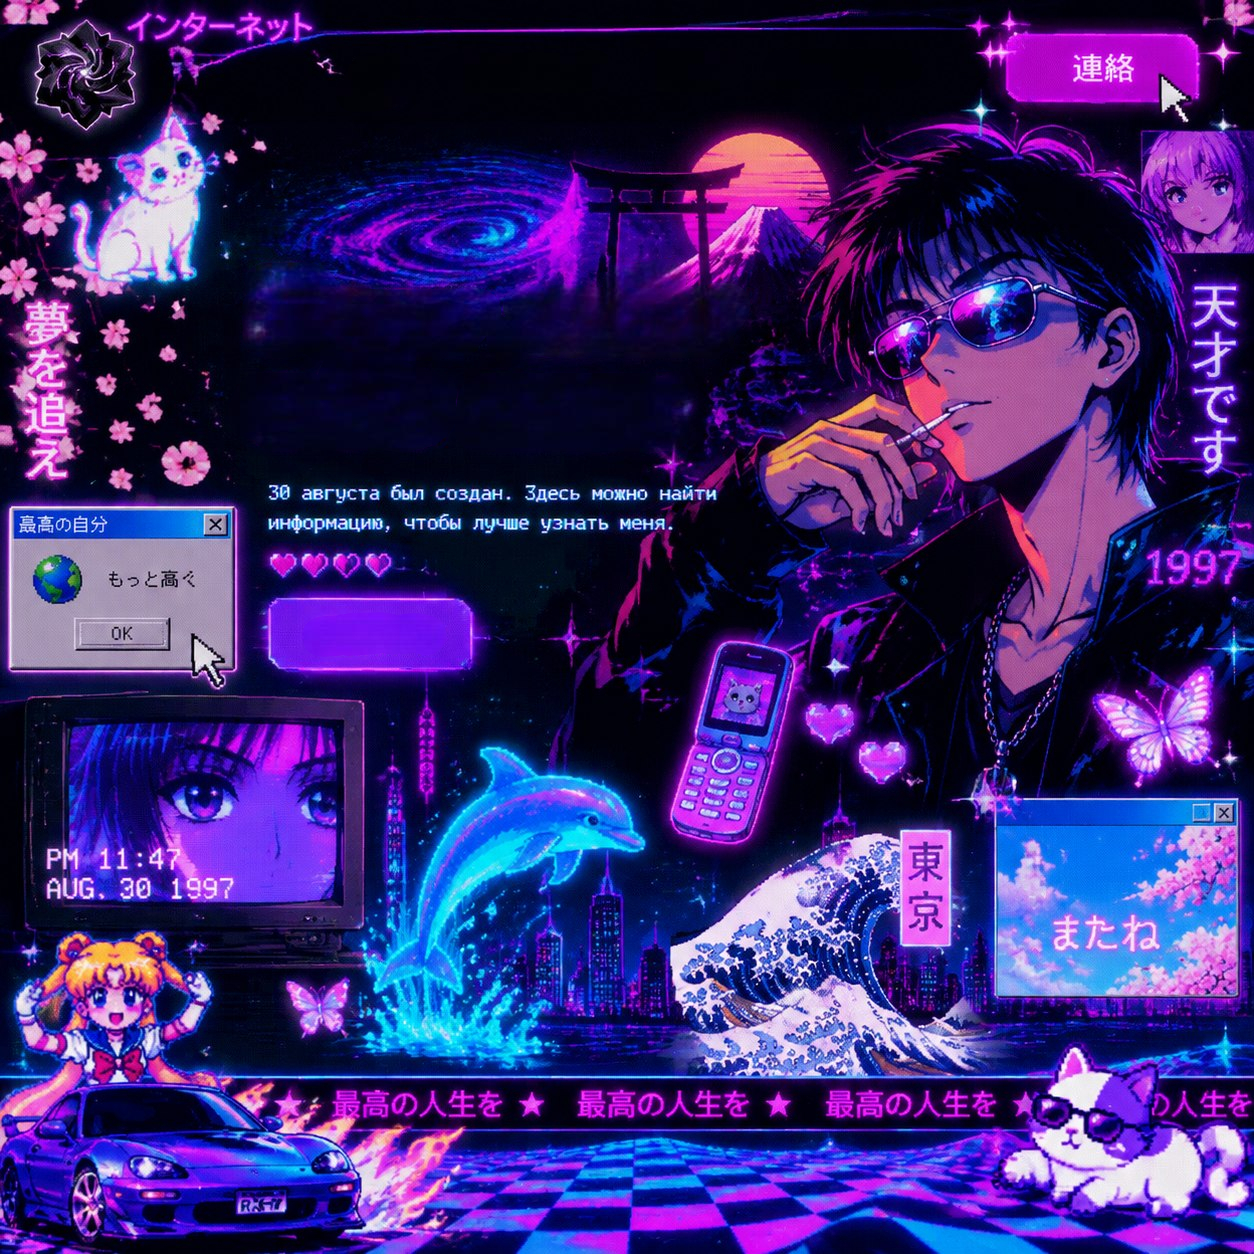
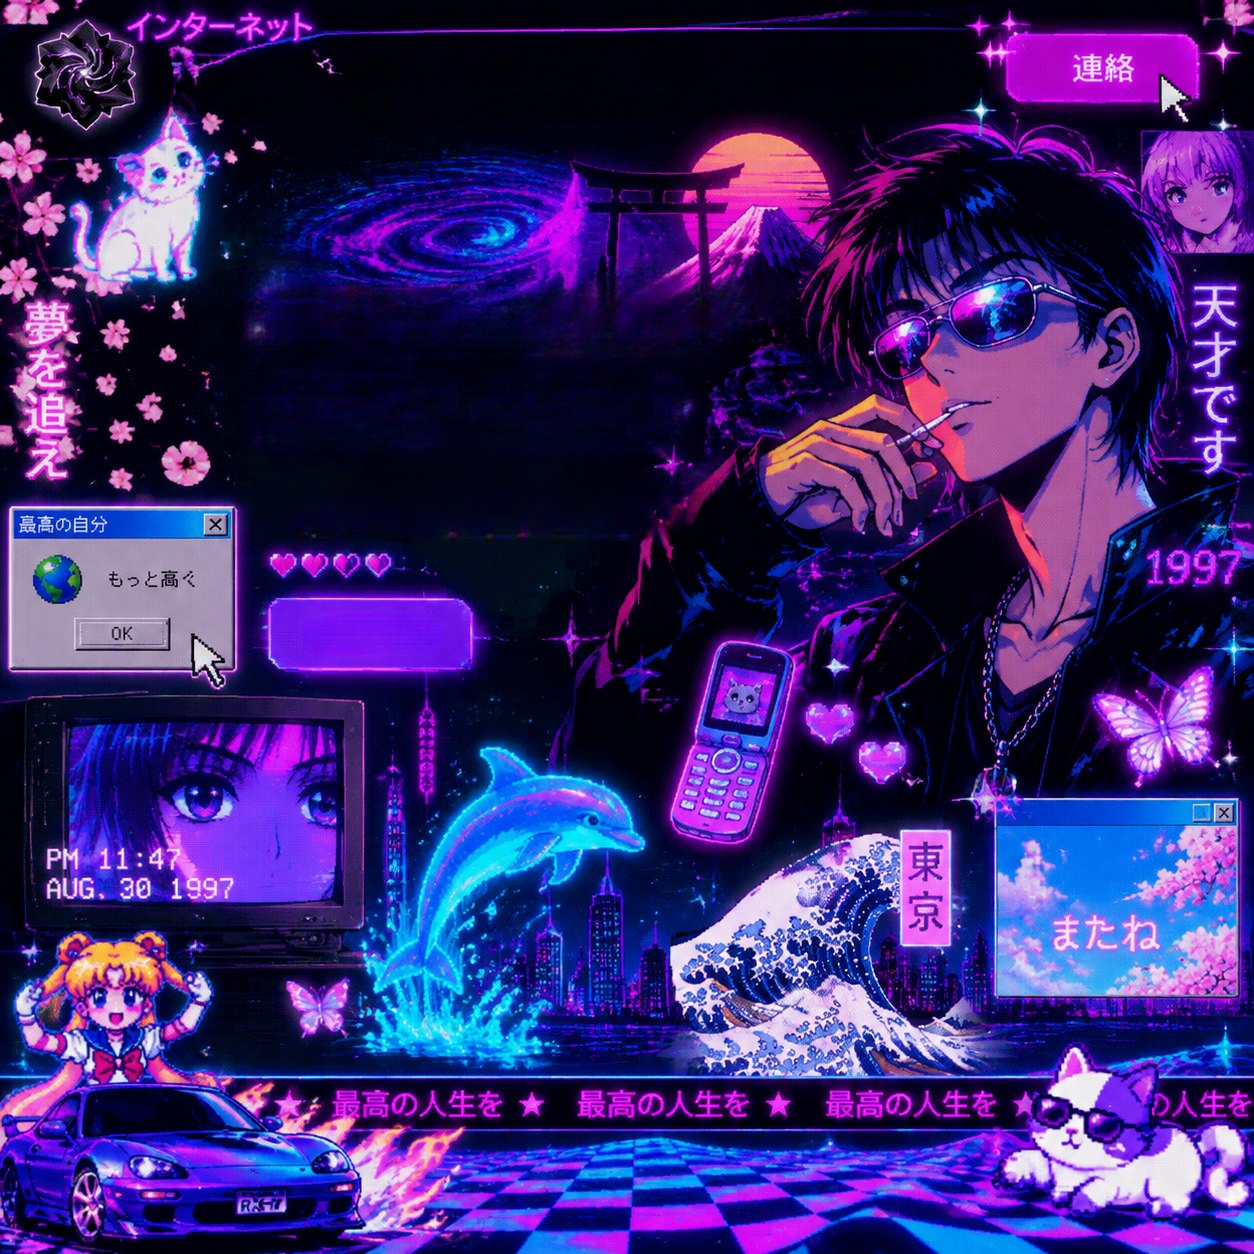
update 2.0!

Changed region(s): [[0.2177, 0.3732, 0.5909, 0.4354]]

diff --git a/style.css b/style.css
@@ -1,71 +1,8 @@
-/* ==========================================================================
-   1. ПЕРЕМЕННЫЕ, СБРОС СТИЛЕЙ И НАСТРОЙКА ФОНА
-   ========================================================================== */
 :root {
-  /* ЦВЕТА ПО УМОЛЧАНИЮ (До клика — светлая тема на всех страницах) */
-  --dark: #19191b; /* Черные заголовки */
-  --gray: #696871; /* Серый текст и обычные ссылки меню */
-  --purple: #5454d4; /* Фиолетовый для кнопок и ссылок в тексте */
-  --orange: #a739c2; /* Цвет для кнопки «Связь» */
-  --header-bg: rgba(0, 0, 0, 0.75); /* Сохранили твою темную шапку */
-  --header-border: rgba(0, 0, 0, 0.05);
-}
-
-/* 🏠 ГЛАВНАЯ СТРАНИЦА: При клике буквы становятся БЕЛЫМИ, включаются три фото */
-/* Сеньорское решение: добавили .home-page, чтобы картинки не мигали на странице связи! */
-body.home-page.bg-active {
-  --dark: #ffffff; /* Весь текст становится белым */
-  --gray: #e2e2e9; /* Светло-серый текст */
-  --purple: #7171e2; /* Светло-фиолетовый для контраста */
-  --orange: #f820ff; /* Ярко-розовый/оранжевый */
-  --header-bg: rgba(0, 0, 0, 0.35); /* Темное стекло для шапки */
-  --header-border: rgba(255, 255, 255, 0.1);
-
-  background-image:
-    url("images/333.jpg"), url("images/444.jpg"), url("images/555.jpg");
-
-  /* Позиционируем: 1-я сверху, 2-я по центру экрана, 3-я ниже */
-  background-position:
-    center top 0px,
-    center center,
-    center top 1000px;
-
-  background-repeat: no-repeat, no-repeat, no-repeat;
-  background-color: #000000; /* Твоя черная подложка */
-
-  /* ТВОЁУТОЧНЕНИЕ: 1-я идет по ширине, 2-я растянута на ВЕСЬ экран (cover), 3-я по ширине */
-  background-size:
-    100% auto,
-    cover,
-    100% auto;
-}
-
-/* 📞 СТРАНИЦА «СВЯЗЬ»: При клике включается полноэкранная ГИФКА */
-body.connect-page.bg-active::before {
-  content: "";
-  position: fixed; /* Фиксируем заставку на месте при скролле */
-  top: 0;
-  left: 0;
-  width: 100vw; /* На весь экран по ширине */
-  height: 100vh; /* На весь экран по высоте */
-  z-index: -1; /* Прячем под текст */
-
-  /* Твои кастомные настройки фона для связи: */
-  background-image: url("images/clouds.gif");
-  background-position: center top;
-  background-repeat: no-repeat;
-  background-size: cover; /* Растягивает гифку без щелей на весь экран */
-}
-
-/* Настройки цветов для страницы связи при клике (твои значения сохранены) */
-body.connect-page.bg-active {
-  background-color: #020202; /* Твой кастомный цвет фона */
-
-  /* Твои кастомные цвета текста (буквы остаются светлыми/белыми на черном фоне) */
-  --dark: #ffffff;
-  --gray: #dddddd;
-  --purple: #ffffff;
-  --orange: #a739c2;
+  --dark: #19191b;
+  --gray: #696871;
+  --purple: #242431;
+  --orange: #000000;
   --header-bg: rgba(0, 0, 0, 0.75);
   --header-border: rgba(0, 0, 0, 0.05);
 }
@@ -84,16 +21,60 @@ html {
 
 body {
   font-family: "DM Sans", sans-serif;
-  color: var(--dark); /* Автоматически подстраивается под переменные */
+  color: var(--dark);
   height: 1770px;
   background-color: #ffffff;
   --header-bg: rgba(255, 255, 255, 0.75);
-
-  /* Плавная анимация перехода */
   transition:
     background-image 0.4s ease,
     background-color 0.4s ease,
     color 0.4s ease;
+  will-change: background-image, background-color, color;
+}
+
+body.home-page.bg-active {
+  --dark: #ffffff;
+  --gray: #e2e2e9;
+  --purple: #4f4f52;
+  --orange: #f820ff;
+  --header-bg: rgba(0, 0, 0, 0.35);
+  --header-border: rgba(255, 255, 255, 0.1);
+  background-color: #000000;
+  background-image:
+    url("images/333.jpg"), url("images/444.jpg"), url("images/555.gif");
+  background-position:
+    center top 0px,
+    center center,
+    center top 1000px;
+  background-repeat: no-repeat;
+  background-size:
+    100% auto,
+    cover,
+    100% auto;
+}
+
+body.connect-page.bg-active {
+  background-color: #020202;
+  --dark: #ffffff;
+  --gray: #dddddd;
+  --purple: #ffffff;
+  --orange: #333131;
+  --header-bg: rgba(0, 0, 0, 0.75);
+  --header-border: rgba(0, 0, 0, 0.05);
+}
+
+body.connect-page.bg-active::before {
+  content: "";
+  position: fixed;
+  top: 0;
+  left: 0;
+  width: 100vw;
+  height: 100vh;
+  z-index: -1;
+  background-image: url("images/clouds.gif");
+  background-position: center top;
+  background-repeat: no-repeat;
+  background-size: cover;
 }
 
 ul {
@@ -104,18 +85,12 @@ a {
   text-decoration: none;
 }
 
-/* Ограничитель ширины контента */
 [class*="__container"] {
   max-width: 1069px;
   margin-inline: auto;
   padding-inline: 15px;
 }
 
-/* ==========================================================================
-   2. СТИЛИ ДЛЯ КОМПЬЮТЕРОВ (ОСНОВНЫЕ)
-   ========================================================================== */
-
-/* Полупрозрачная стеклянная шапка */
 .header {
   position: fixed;
   width: 100%;
@@ -155,17 +130,17 @@ a {
   transition: color 0.3s;
 }
 
+.header__list-link:hover,
+.header__list-link:focus-visible {
+  color: var(--dark);
+}
+
 .header__list-link.active {
   color: var(--dark);
   border-bottom: 2px solid var(--purple);
   padding-bottom: 5px;
 }
 
-.header__list-link:hover {
-  color: var(--dark);
-}
-
-/* Кнопки */
 .header__button,
 .hero__button {
   font-weight: 700;
@@ -183,17 +158,14 @@ a {
   background: var(--orange);
 }
 
-.hero__button {
-  background: var(--purple);
-}
-
 .header__button:hover,
-.hero__button:hover {
-  opacity: 90%;
+.header__button:focus-visible,
+.hero__button:hover,
+.hero__button:focus-visible {
+  opacity: 0.9;
   transform: translateY(-2px);
 }
 
-/* Главная секция (Hero) */
 main {
   margin-top: 141px;
 }
@@ -204,18 +176,12 @@ main {
 
 .hero__container {
   position: relative;
-  overflow: hidden;
+  /* overflow: hidden; */
 }
 
 .hero__content {
   max-width: 500px;
   padding-block: 92px;
-}
-
-.hero__image {
-  position: absolute;
-  top: 0;
-  right: -75px;
 }
 
 .hero__title {
@@ -237,7 +203,6 @@ main {
   transition: color 0.4s ease;
 }
 
-/* Ссылки внутри текста */
 .hero__text a {
   color: var(--purple);
   text-decoration: underline;
@@ -251,20 +216,46 @@ main {
   gap: 40px;
 }
 
-/* ==========================================================================
-   3. МОБИЛЬНЫЕ СТИЛИ (ЭКРАНЫ МЕНЬШЕ 768px)
-   ========================================================================== */
+.hero__button {
+  background: var(--purple);
+}
+
+.hero__image {
+  position: absolute;
+  top: 0;
+  right: -75px;
+}
+
+.image-page main {
+  margin-top: 81px;
+  width: 100%;
+}
+
+.image-page .image-page__container {
+  max-width: 100% !important;
+  padding-inline: 0 !important;
+  margin: 0;
+  width: 100%;
+}
+
+.image-hero {
+  width: 100%;
+  margin-top: 150px;
+  padding: 0;
+  overflow: hidden;
+}
+
+.image_about_me {
+  width: 100%;
+  height: 35vw;
+  display: block;
+}
+
 @media (max-width: 768px) {
   .header {
     padding-block: 12px;
   }
 
-  main {
-    margin-top: 90px;
-  }
-  .image-page main {
-    margin-top: 60px;
-  }
   .header__nav {
     display: flex;
     gap: 15px;
@@ -285,7 +276,6 @@ main {
     -webkit-overflow-scrolling: touch;
     scroll-snap-type: x mandatory;
     padding-block: 5px;
-    -ms-overflow-style: none;
     scrollbar-width: none;
   }
 
@@ -310,6 +300,10 @@ main {
     border-radius: 8px;
   }
 
+  main {
+    margin-top: 90px;
+  }
+
   .hero__container {
     display: flex;
     flex-direction: column;
@@ -326,6 +320,15 @@ main {
     line-height: 48px;
   }
 
+  .hero__buttons {
+    margin-top: 30px;
+  }
+
+  .hero__button {
+    width: 100%;
+    padding: 15px 30px;
+  }
+
   .hero__image {
     position: relative;
     top: auto;
@@ -336,13 +339,8 @@ main {
     margin: 0 auto;
   }
 
-  .hero__buttons {
-    margin-top: 30px;
-  }
-
-  .hero__button {
-    width: 100%;
-    padding: 15px 30px;
+  .image-page main {
+    margin-top: 60px;
   }
 
   .image-hero {
@@ -350,30 +348,6 @@ main {
   }
 }
 
-/* ==========================================================================
-   4. СПЕЦИАЛЬНЫЕ СТИЛИ СТРАНИЦЫ «ИЗОБРАЖЕНИЕ»
-   ========================================================================== */
-.image-page main {
-  margin-top: 81px;
-  width: 100%;
-}
-
-.image-page .image-page__container {
-  max-width: 100% !important;
-  padding-inline: 0 !important;
-  margin: 0;
-  width: 100%;
-}
-
-.image-hero {
-  width: 100%;
-  margin-top: 150px;
-  padding: 0;
-  overflow: hidden;
-}
-
-.image_about_me {
-  width: 100%;
-  height: 35vw;
-  display: block;
+body.bg-active .hero__image {
+  display: none;
 }

diff --git a/index.html b/index.html
@@ -42,7 +42,7 @@
               <p class="hero__desc"><b>был создан 30 августа 2026</b></p>
             </div>
           </div>
-          <img class="hero__image" src="" alt="" />
+          <img class="hero__image" src="/images/tenor.gif" alt="" />
         </div>
       </section>
     </main>
